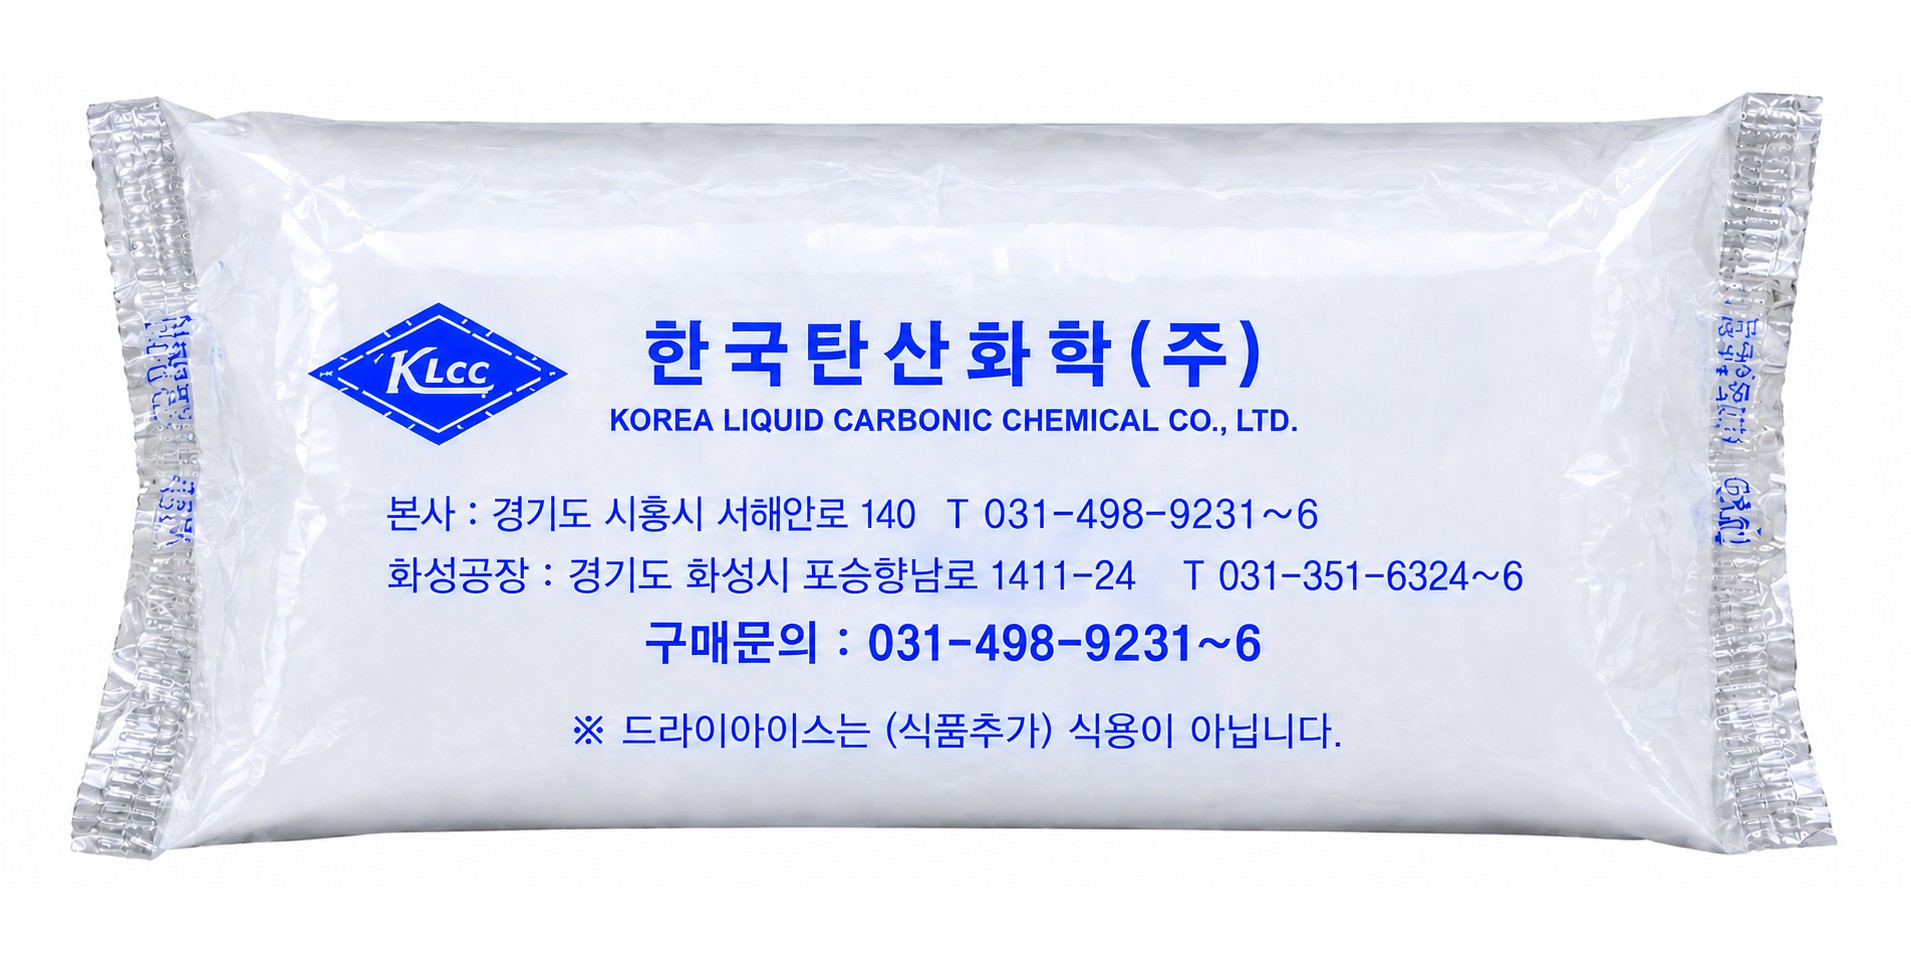
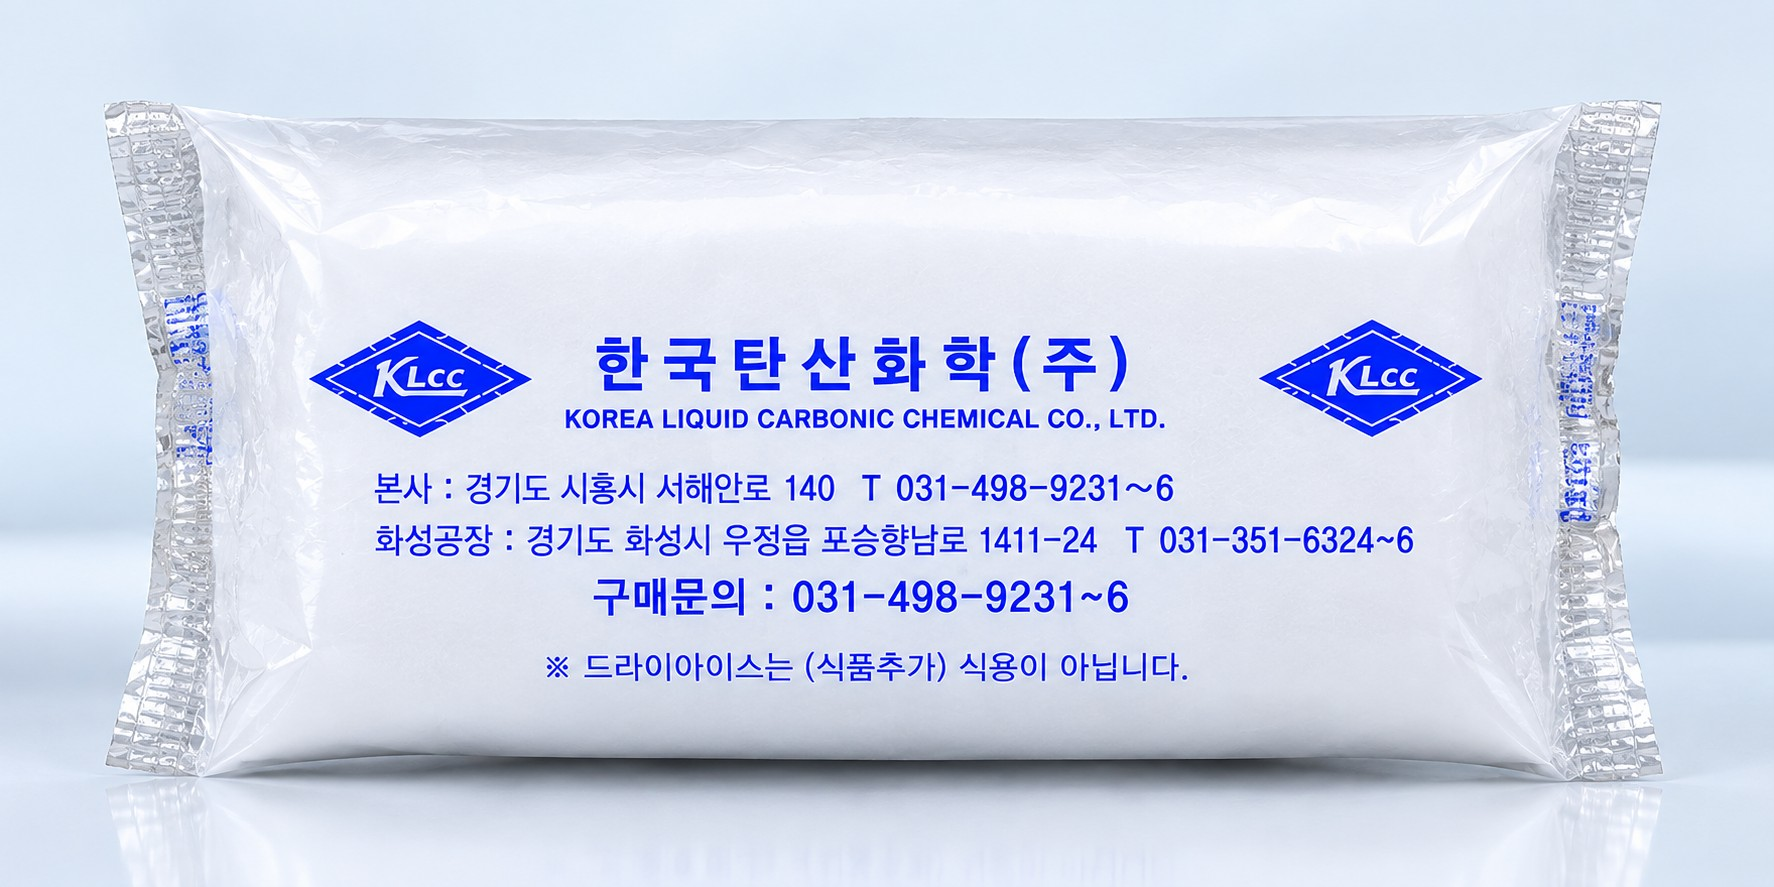
드라이아이스 규격 섹션 너겟 실사 사진을 새 KLCC 봉투 이미지(2:1)로 교체. ice-nugget-pack.jpg ?v=20260910b

diff --git a/products-ice.html b/products-ice.html
@@ -287,7 +287,7 @@
                 <h3 class="specpanel__title">너겟 <em>(NUGGET)</em></h3>
                 <p class="specpanel__desc">소형 직사각형 형태로 성형되어 취급과 소분이 편리한 드라이아이스입니다.</p>
                 <div class="icespec-figs">
-                  <div class="icespec-figs__photo"><img src="assets/images/site/ice-nugget-pack.jpg?v=20260910" alt="한국탄산화학㈜ 너겟 드라이아이스 포장 제품" loading="lazy"></div>
+                  <div class="icespec-figs__photo"><img src="assets/images/site/ice-nugget-pack.jpg?v=20260910b" alt="한국탄산화학㈜ 너겟 드라이아이스 포장 제품" loading="lazy"></div>
                   <figure class="icespec-figs__dim icespec-figs__dim--titled">
                     <figcaption class="icespec-figs__dimtitle">개별 너겟 규격</figcaption>
                     <img src="assets/images/site/icespec/dim-nugget.png?v=20260910" alt="개별 너겟 규격 125×78×45mm" loading="lazy">
